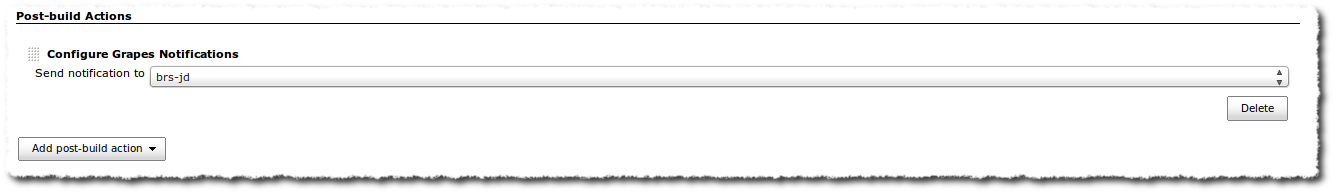
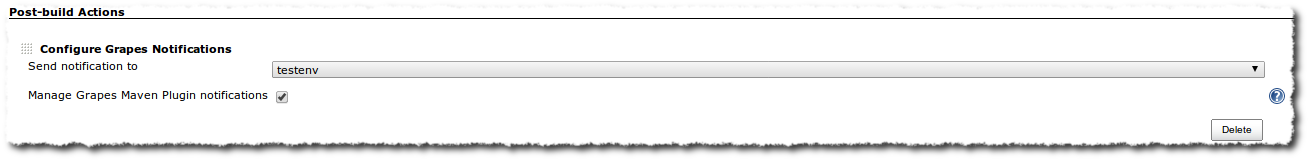
Update documentation about extension points

diff --git a/src/main/java/org/axway/grapes/jenkins/resend/ResendProjectAction.java b/src/main/java/org/axway/grapes/jenkins/resend/ResendProjectAction.java
@@ -97,6 +97,14 @@ public class ResendProjectAction implements Action {
 
     }
 
+    /**
+     * Manage re-send module on ResendBuildAction
+     *
+     * @param client GrapesClient
+     * @param resendAction ResendBuildAction
+     * @param user String
+     * @param password String
+     */
     private void sendModule(final GrapesClient client, final ResendBuildAction resendAction, final String user, final String password) {
         try {
             client.postModule(resendAction.getModule(), user, password);
@@ -109,8 +117,9 @@ public class ResendProjectAction implements Action {
     }
 
     /**
-     * Returns the lis
-     * @return
+     * Returns the list of modules information
+     *
+     * @return Map<String, String>
      */
     public Map<String, String> getModulesInfo() {
         final Map<String, String> modulesInfo = new HashMap<String, String>();

diff --git a/src/site/markdown/extend.md b/src/site/markdown/extend.md
@@ -1,0 +1,29 @@
+Extend Grapes Jenkins plugin
+=============================
+
+Grapes Jenkins plugin has been designed to send notification to Grapes server. This way, you can plug Grapes directly to your own CI. Getting dependencies information as soon as your project is built by a CI is the best way to keep up-to-date information.
+To make you able to send your own information to the server, Grapes Jenkins plugin provides an extension point on notification.
+
+By extended the plugin, you can create your own notifications and this way, fill the Grapes database with your own information.
+
+If you need to better understand what an Jenkins extension point is, go and see [Jenkins documentation](https://wiki.jenkins-ci.org/display/JENKINS/Defining+a+new+extension+point)
+
+How to extend?
+--------------
+ * extend GrapesNotification and its descriptor ([documentation](https://wiki.jenkins-ci.org/display/JENKINS/Defining+a+new+extension+point))
+ * ... and that is it!
+ 
+ The Jenkins plugin will instantiate your implementation of GrapesNotification at the notification time and will send it to the Grapes server using it own configuration.
+
+Currently, one kind of notification is available
+
+ * POST_MODULE notification
+ 
+ 
+POST_MODULE notification
+------------------------
+
+A POST_MODULE notification sends Module object to a Grapes server. This will create or perform an update of the module information into Grapes database.
+
+_**Default implementation:**_ the default implementation of this notification is done to send Grapes Maven plugin reports. You can activate it in the job configuration using "Manage Grapes Maven plugin Notification".
+For more information see the [Grapes Jenkins plugin usage](usage.html) page.

diff --git a/src/site/markdown/usage.md b/src/site/markdown/usage.md
@@ -1,8 +1,7 @@
 Usage
 ============
 
-For now, Grapes Jenkins plugins is only available for Maven2/3 jobs. It expects to find at the end of a build a file generated by the [Grapes Maven plugin].
-It will send the file to the Grapes server selected into the job configuration and generate a report which will be attached to the build.
+For now, Grapes Jenkins plugins is only designed to send Module Json file to a Grapes server. The module Json file can either be generated by the [Grapes Maven Plugin] or by one of your own Jenkins plugin that [extends Grapes Jenkins plugin](extend.html).
 
 
 
@@ -24,6 +23,7 @@ Select in the Grapes post actions of your Maven2/3 job.
 ![Select Post Action](job-config.png)
 
 Select the Grapes server you want to send the information to.
+If you are using the [Grapes Maven plugin], tic the check box "Manage Grapes Maven plugin Notification".
 
 ![Select Grapes server](job-config2.png)
 
